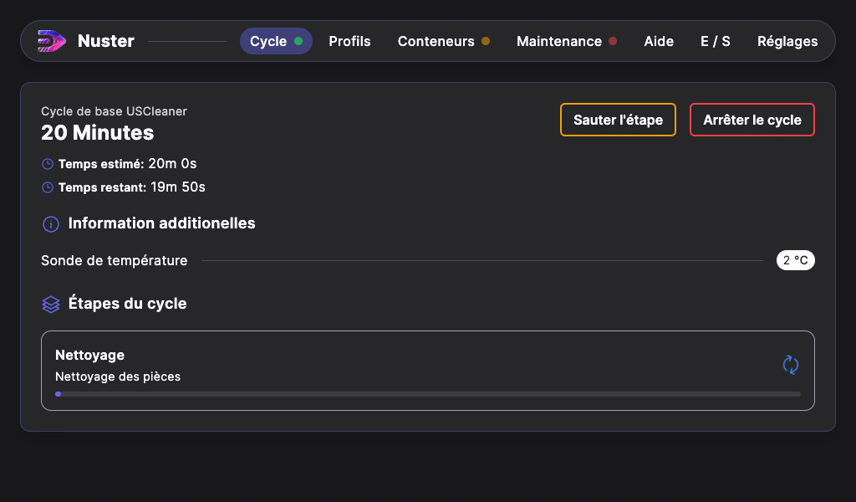
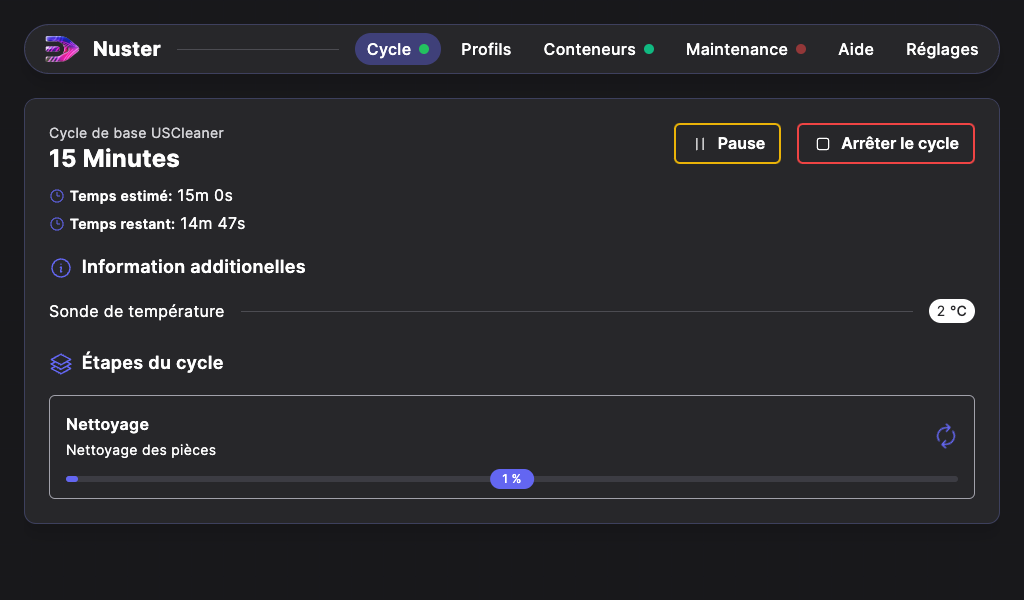
docs updates

diff --git a/libs/misc/documentation/machines/metalfog-m-2/manual/fr/sections/50-usl-base/index.md b/libs/misc/documentation/machines/metalfog-m-2/manual/fr/sections/50-usl-base/index.md
@@ -2,23 +2,57 @@
 
 Pour lancer le cycle de métallisation « Utility Silver Layer - USL », procédez ainsi :
 
- - Depuis l’écran d’accueil de l’interface digitale, appuyez sur « Cycle », puis appuyez sur « Utility Silver Layer - USL ».
-
- -  Les conditions de sécurité pour lancer le cycle apparaissent. Chaque indicateur doit être vert pour pouvoir démarrer le cycle (voir chapitre « Vérification des conditions de sécurité »).
+Depuis l’écran d’accueil de l’interface digitale, appuyez sur « Cycle », puis appuyez sur « Utility Silver Layer - USL ».
+Les conditions de sécurité pour lancer le cycle apparaissent. Chaque indicateur doit être vert pour pouvoir démarrer le cycle (voir chapitre « Vérification des conditions de sécurité »).
 
 ![Menu Utility Silver Layer - USL](menu_USL.png)
 
- - Une fois les conditions de sécurité validées (indicateurs en vert), le cycle peut alors être lancé en cliquant sur le bouton « Démarrer le cycle » jusqu'alors rouge.
+Une fois les conditions de sécurité validées (indicateurs en vert), le cycle peut alors être lancé en cliquant sur le bouton « Démarrer le cycle » jusqu'alors rouge.
 
 ![Affichage Cycle USL en cours](cycleUSLencours.png)
 
- - Au terme du cycle, une nouvelle page s'affiche spécifiant que le cycle est terminé. La mention "Cycle terminé avec succès" indique que la métallisation s'est déroulée correctement.
-
- - Appuyez sur « Terminer le cycle » pour revenir à la page d’accueil.
+Au terme du cycle, une nouvelle page s'affiche spécifiant que le cycle est terminé. La mention "Cycle terminé avec succès" indique que la métallisation s'est déroulée correctement.
+Appuyez sur « Terminer le cycle » pour revenir à la page d’accueil.
 
 ![Affichage de fin de cycle normal](cycletermineavecsucces.png)
 
- >**Attention** : Si cette page affiche tout autre message que « Cycle terminé avec succès », alors le message qui apparait précise la raison d'arrêt du cycle (pression d'air trop basse, couvercle ouvert, niveau d'oxydant minimal...). En dessous, vous pouvez visualiser les étapes effectuées ou non. 
+ > **Attention** : Si cette page affiche tout autre message que « Cycle terminé avec succès », alors le message qui apparait précise la raison d'arrêt du cycle (pression d'air trop basse, couvercle ouvert, niveau d'oxydant minimal...). En dessous, vous pouvez visualiser les étapes effectuées ou non.
 
->Si un cycle « Utility Silver Layer - USL » s'arrête pendant la métallisation, **ne relancez pas le même cycle** : l'activant viendrait polluer la surface des pièces traitées. Il faut alors lancer un cycle « Renforcement USL »  pour terminer la métallisation.
+### Déroulement normal
 
+### Arrêt en cours de cycle
+
+Si un cycle « Utility Silver Layer - USL » s'arrête pendant la métallisation, **ne relancez pas le même cycle** : l'activant viendrait polluer la surface des pièces traitées. Il faut alors lancer un cycle « Renforcement USL »  pour terminer la métallisation.
+
+Depuis `Nuster 1.11.9`. Si une étape est arrétée prématurément, sa progression ainsi que sa raison d'arrêt est précisée.
+
+![Affichage fin de cycle avec arrêt](cycle_fin_arret.png)
+
+Seule 4 étapes peuvent s'arreter prématurément en raison de leur niveau de produit:
+
+- Activation
+- Rinçage 1
+- Metallisation
+- Rinçage 2
+
+#### En cas d'arrêt durant l'Activation
+
+Si le cycle s'arrête durant l'activation, la machine va procéder au rinçage des pièces et au nettoyage des buses. En fonction de la progression de l'activation vous devez procéder de la sorte:
+
+- Si l'activation a dépassé 50%, Relancez un cycle `USL — Utility Silver Layer`.
+- Si l'activation a dépassé les 90%, Démarrer le cycle `Renforcement USL`.
+
+#### En cas d'ârret durant le Rinçage 1
+
+Si le cycle s'arrête durant le Rinçage 1, remplissez le conteneur d'eau déionisée. Puis lancez un cycle `Renforcement USL`.
+
+#### En cas d'arrêt durant la Métalisation
+
+Si le cycle s'arrête durant la métallisation, procédez en fonction:
+
+- Si la métallisation a dépassé les 95%: aucune opération a éffectuer.
+- Si la métalisation n'as pas dépassé les 95% et que le traitement n'est pas correct, lancez un cycle `Renforcement USL``.
+
+#### En cas d'arrêt durant le Rinçage 2
+
+Si le cycle s'arrête durant le rinçage 2, rinçez les pièces manuellement.

diff --git a/libs/misc/documentation/machines/uscleaner-m-1/manual/fr/sections/30-cycle-start/index.md b/libs/misc/documentation/machines/uscleaner-m-1/manual/fr/sections/30-cycle-start/index.md
@@ -13,6 +13,8 @@ Lorsque toutes les conditions de sécurité sont valides, le bouton `Lancer le c
 
 ![Cycle en cours](cycle_run2.png)
 
+Il est possible de mettre en pause un cycle en cours en utilisant le bouton `Pause`. Ce bouton mets en pause le cycle et désactive les conditions de sécurité. vous pouvez ainsi ouvrir le couvercle pour voir l'avancement de votre nettoyage.
+
 ### Fin du cycle
 
 Au terme d'un cycle, une nouvelle page s'affiche spécifiant que le cycle est terminé. La mention "Cycle terminé avec succès" indique que le nettoyage s'est déroulé correctement.
@@ -21,5 +23,4 @@ Appuyer sur « Terminer le cycle » pour revenir à la page d’accueil.
 
 ![Fin du cycle](cycle_end.png)
 
- >**Attention** : Si cette page affiche tout autre message que « Cycle terminé avec succès », alors le message qui apparait précise la raison d'arrêt du cycle (surchauffe, couvercle ouvert...). En dessous, vous pouvez visualiser les étapes effectuées ou non. 
-
+ > **Attention** : Si cette page affiche tout autre message que « Cycle terminé avec succès », alors le message qui apparait précise la raison d'arrêt du cycle (surchauffe, couvercle ouvert...). En dessous, vous pouvez visualiser les étapes effectuées ou non.

diff --git a/.changeset/large-spoons-raise.md b/.changeset/large-spoons-raise.md
@@ -1,0 +1,5 @@
+---
+"@metalizzsas/nuster-misc": patch
+---
+
+chore: updated docs for pause & enhanced ending messages
